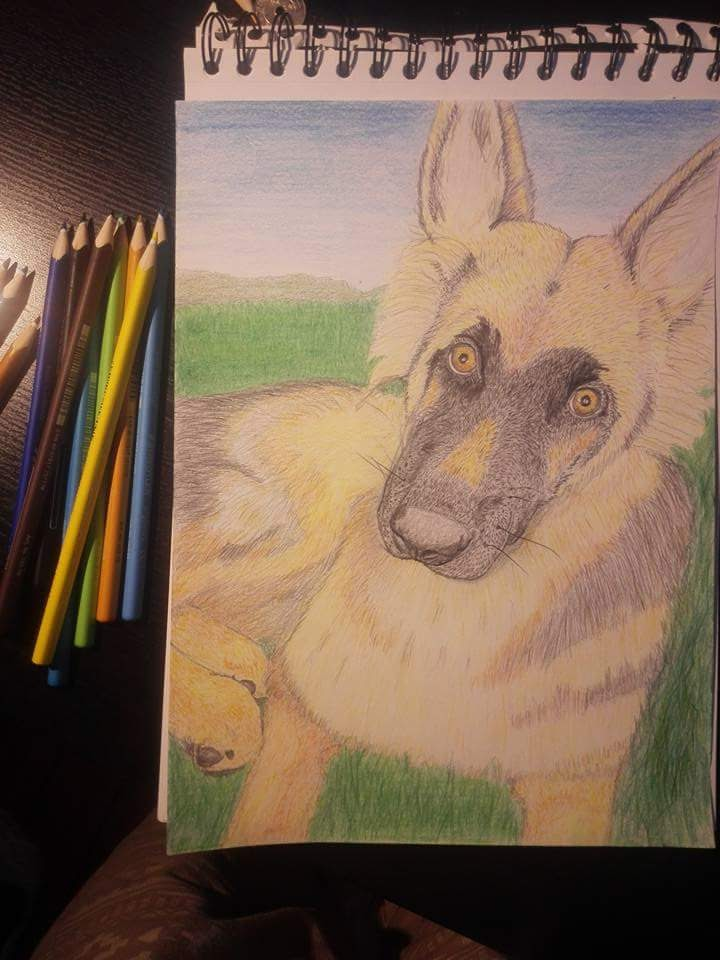
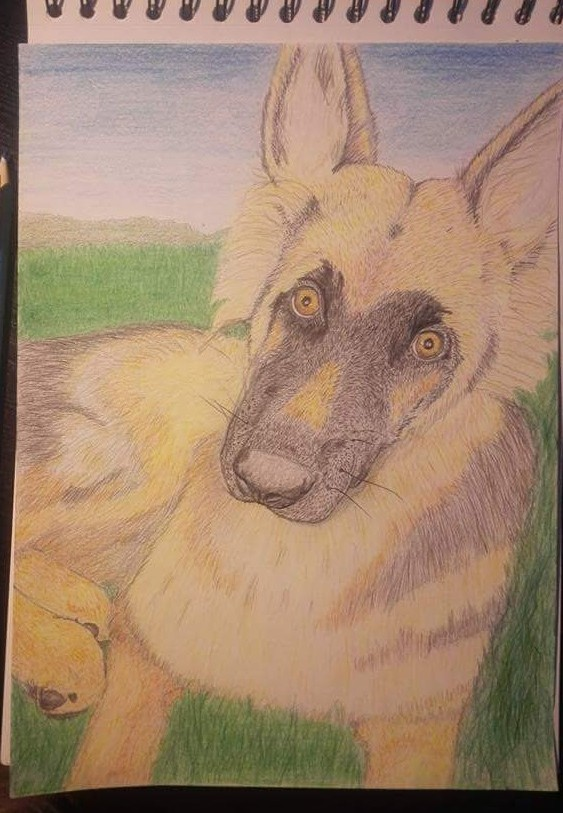
Added matching slide in gallery as well as "customer pictures" on top. Adjusted CSS values towards those aswell to fit 3 in row. Then added another section with more pictures.

diff --git a/gallery.html b/gallery.html
@@ -6,6 +6,10 @@
     <title>Craftville - Galleri</title>
     <link rel="stylesheet" href="style.css" />
     <script src="script.js" defer></script>
+        <link
+      rel="stylesheet"
+      href="https://cdn.jsdelivr.net/npm/@splidejs/splide@4.1.4/dist/css/themes/splide-default.min.css"
+    />
   </head>
   <body>
 </html>
@@ -22,6 +26,98 @@
   </div>
 </nav>
 
+<!-- SLIDER -->
+
+
+    <section class="splide">
+      <div class="hero-heading-main">
+        <h1>Craftville</h1>
+      </div>
+      <div class="splide__track">
+        <ul class="splide__list">
+          <li class="splide__slide_gallery">
+            <img
+              src="./media/GALLERY/painting_castle_medium.jpg"
+              alt="Placeholder picture"
+            />
+          </li>
+          <li class="splide__slide">
+            <img
+              src="./media/GALLERY/painting_field_medium.jpg"
+              alt="Placeholder picture"
+            />
+          </li>
+          <li class="splide__slide">
+            <img
+              src="./media/GALLERY/painting_mountain_medium.jpg"
+              alt="Placeholder picture"
+            />
+          </li>
+        </ul>
+      </div>
+    </section>
+
+<!-- GALLERY PICTURES -->
+
+
+
+ <section class="info-box-gallery">
+  <h2 id="h2-gallery">Fra våre medlemmer</h2>
+      <div class="info-box-card-gallery">
+        <img
+          src="./media/REVIEWS/Joker.jpg"
+          alt="A modern mosaic piece with a face of a woman. "
+        />
+        <div class="info-text-gallery">
+          <h2>Arild  , Porsgrunn</h2>
+          <p>
+            Arild startet hos oss et halvt år siden med en lidenskap uten kunnskapen og i dag tar han nytte av mange av teknikkene som vi lærer bort. 
+          </p>
+        </div>
+        <img src="./media/REVIEWS/Charlie.jpg" alt="A painting of Charlie Chaplin with black outlines." />
+        <div class="info-text-gallery">
+          <h2>Nina  , Skien </h2>
+          <p>
+            Nina har lang erfaring med maling men foretrekker våre produkter og det sosiale aspektet og deltar på våre ukentlige kurs med en glede som smitter.
+          </p>
+      </div>
+              <img src="./media/REVIEWS/Nature.jpg" alt="A painting of Charlie Chaplin with black outlines." />
+        <div class="info-text-gallery">
+          <h2>Gunnar  , Herre</h2>
+          <p>
+            Gunnar er en av våre nyeste medlemmer som har utviklet seg raskt over kort tid, her er et maleri han nylig gjorde i regi av en Bob Ross video.
+          </p>
+      </div>
+    </section>
+
+     <section class="info-box-gallery">
+      <div class="info-box-card-gallery">
+        <img
+          src="./media/REVIEWS/Dreamcatcher.jpg"
+          alt="A modern mosaic piece with a face of a woman. "
+        />
+        <div class="info-text-gallery">
+          <h2>Henriette  , Siljan</h2>
+          <p>
+            Henriette er ei sprudlende jente fra Siljan som kom til oss med et stort ønske om å tegne og etter 3 uker med kurs viser hun allerede et stort naturlig talent.
+          </p>
+        </div>
+        <img src="./media/REVIEWS/Doggo.jpg" alt="A painting of Charlie Chaplin with black outlines." />
+        <div class="info-text-gallery">
+          <h2>Bjørn  , Skotfoss </h2>
+          <p>
+           Bjørn elsker dyr og viser frem sin første tegning med farger i et bilde fra nabohunden "Rex". Bildet ble godt tatt i mot av eier og henger nå i stuen til foreldrene til Rex.
+          </p>
+      </div>
+              <img src="./media/REVIEWS/Rolling.jpg" alt="A painting of Charlie Chaplin with black outlines." />
+        <div class="info-text-gallery">
+          <h2>Kåre-Ivar  , Limi</h2>
+          <p>
+            Kåre-Ivar er en ihugget Rolling Stones fan og har satt av mye tid og energi i dette flotte gruppebildet og har allerede mottatt bud fra andre fans om salg av bildet, men det forblir i Kåre-Ivar sin stue inntil videre.
+          </p>
+      </div>
+    </section>
+
 <!-- FOOTER -->
      <footer>
       <div class="footer-inner">
@@ -32,4 +128,15 @@
       </div>
     </footer>
 
+
+        <script src="https://cdn.jsdelivr.net/npm/@splidejs/splide@4.1.4/dist/js/splide.min.js"></script>
+
+    <script>
+      var splide = new Splide(".splide", {
+        type: "loop",
+        padding: "5rem",
+      });
+
+      splide.mount();
+    </script>
     </body>

diff --git a/style.css b/style.css
@@ -117,6 +117,14 @@ nav a:visited {
   margin-bottom: -10rem;
 }
 
+.splide__slide_gallery {
+  width: 100%;
+  height: 100%;
+  object-fit: cover;
+  display: block;
+  margin-bottom: -140rem;
+}
+
 /* INFO-BOX */
 
 .info-box {
@@ -130,9 +138,28 @@ nav a:visited {
   font-style: italic;
 }
 
+.info-box-gallery p {
+  margin-top: 1.5rem;
+  margin-right: 2rem;
+  font-style: italic;
+  text-align: left;
+}
+
 .info-box h2 {
   font-family: bontex;
-  margin-right: 10rem;
+  margin-right: 6rem;
+}
+
+#h2-gallery {
+  text-align: center;
+  font-size: 3rem;
+  margin-bottom: 2rem;
+  margin-top: 2rem;
+}
+
+.info-box-gallery h2 {
+  font-family: bontex;
+  margin-right: 2.5rem;
 }
 
 .info-box-card {
@@ -140,6 +167,14 @@ nav a:visited {
   display: flex;
   justify-content: center;
   flex-direction: row;
+}
+.info-box-card-gallery {
+  width: auto;
+  display: flex;
+  justify-content: center;
+  flex-direction: row;
+  margin-left: 3rem;
+  margin-bottom: 3rem;
 }
 
 .info-text {
@@ -149,7 +184,27 @@ nav a:visited {
   margin-left: 3rem;
 }
 
+.info-text-gallery {
+  display: flex;
+  flex-direction: column;
+  align-items: center;
+  width: auto;
+}
+
+.info-text-gallery p {
+  width: 10rem;
+}
+
 .info-box-card img {
+  width: 12rem;
+  display: flex;
+  justify-content: center;
+  border-radius: 1rem;
+  margin: 1rem;
+  box-shadow: 5px 5px 10px rgba(0, 0, 0, 0.3);
+}
+
+.info-box-card-gallery img {
   width: 12rem;
   display: flex;
   justify-content: center;

diff --git a/booking.html b/booking.html
@@ -22,6 +22,8 @@
   </div>
 </nav>
 
+<!--  -->
+
 
 
 <!-- FOOTER -->